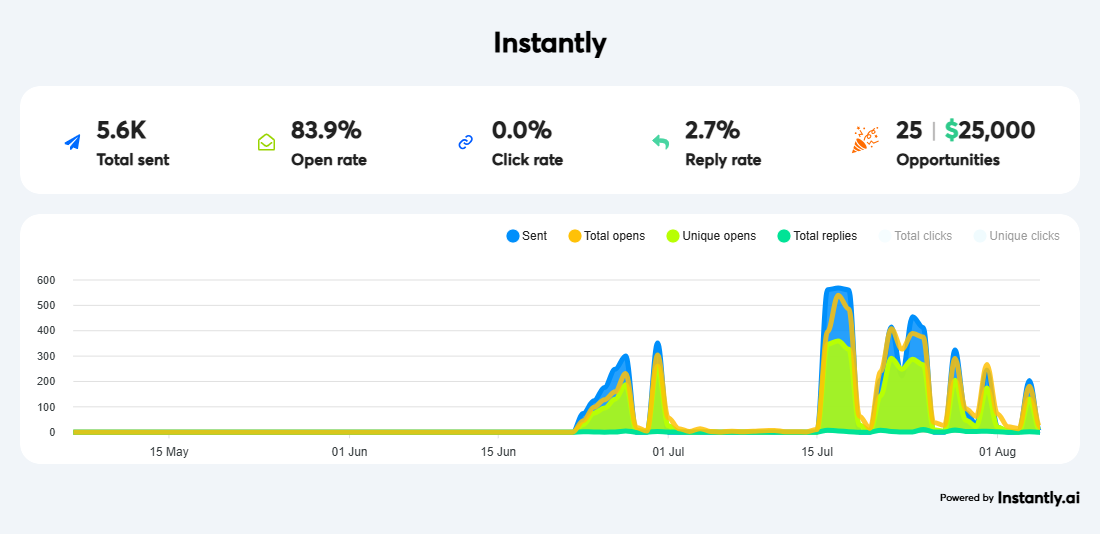
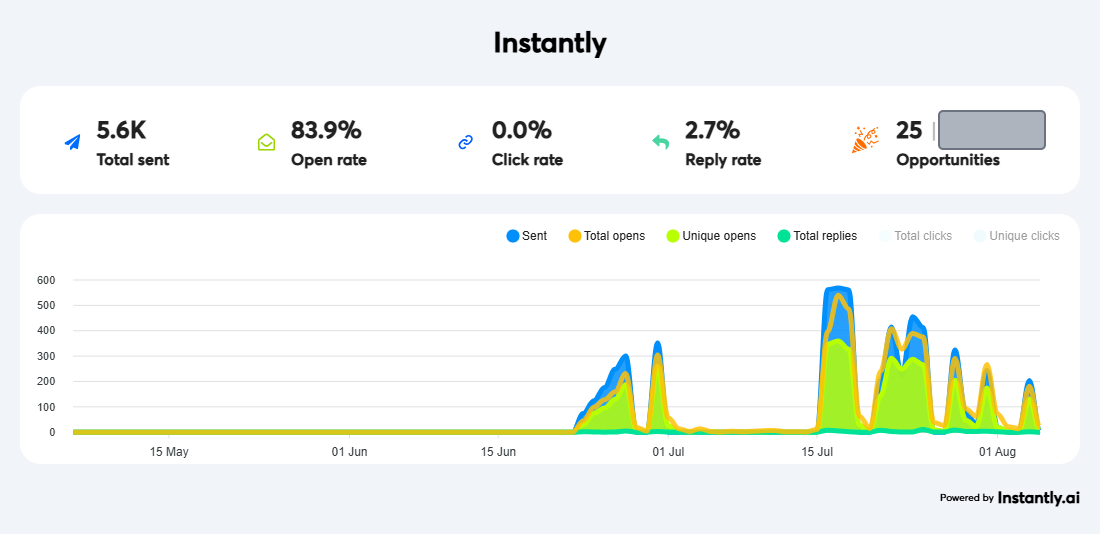
fix: redact unverified opportunity values

Changed region(s): [[0.8345, 0.1798, 0.9582, 0.2996]]

diff --git a/src/components/public/campaign-evidence-data.ts b/src/components/public/campaign-evidence-data.ts
@@ -40,8 +40,22 @@ import instantly20250805 from "@/assets/results/instantly_2025-08-05.png";
  * test (see the inbox-placement category). Dollar figures shown next to
  * "Opportunities" on the source screenshots (e.g. "$25,000") are Instantly's
  * own pipeline-value estimate, not independently verified revenue, so they
- * are intentionally omitted from every caption/alt text below even though
- * they're still visible in the screenshots themselves.
+ * are intentionally omitted from every caption/alt text below.
+ *
+ * That was true in text from the start, but as of 2026-09-02 it's also true
+ * of the pixels: instantly_2025-08-05.png, instantly-result_98.png, and
+ * instantly-campaign-result-2.png each had their "$25,000" / "$17,000" /
+ * "$140,000" figure redacted directly in the image — a solid, bordered,
+ * non-transparent gray block composited over just that text (measured to
+ * the exact glyph bounds via pixel scanning first, so nothing else in the
+ * same card was touched). The adjacent verified opportunity counts ("25",
+ * "17", "140"), every other metric, every chart, and every platform label
+ * are byte-for-byte the original screenshot pixels outside the redaction
+ * box. This is a deliberate, visibly-a-redaction edit (not a crop, since
+ * the dollar figure sits inline mid-card next to data that has to stay
+ * visible) — each of the three items below carries a note saying so, per
+ * the standing rule that a screenshot must never look like the platform
+ * itself omitted the figure.
  *
  * Rejected outright (not used anywhere):
  * - campaign-send-reply-volume.png: low-quality/illegible, superseded by
@@ -82,6 +96,7 @@ export const campaignEvidence: readonly CampaignEvidenceItem[] = [
     category: "campaign-performance",
     caption:
       "Sustained campaign performance on Instantly — 5.6K sent, a platform-reported 83.9% open rate, and a 2.7% reply rate over roughly three months, generating 25 sales opportunities.",
+    note: "Platform-assigned monetary value hidden because it is not verified revenue.",
     featured: true,
   },
   {
@@ -103,6 +118,7 @@ export const campaignEvidence: readonly CampaignEvidenceItem[] = [
     category: "campaign-performance",
     caption:
       "A second, smaller campaign on Instantly — 759 sequence sends, a platform-reported 98% open rate, and 17 sales opportunities generated.",
+    note: "Platform-assigned monetary value hidden because it is not verified revenue.",
   },
   {
     id: "instantly-campaign-result-2",
@@ -112,7 +128,7 @@ export const campaignEvidence: readonly CampaignEvidenceItem[] = [
     category: "campaign-performance",
     caption:
       "127,149 sequence starts generated 140 opportunities. Instantly reported a 78.65% Positive Reply Rate among replies—not an overall campaign reply rate.",
-    note: "An exceptional individual result, not a typical or guaranteed outcome — most campaigns perform closer to the other examples shown here.",
+    note: "An exceptional individual result, not a typical or guaranteed outcome — most campaigns perform closer to the other examples shown here. Platform-assigned monetary value hidden because it is not verified revenue.",
   },
   {
     id: "campaign-result-smartlead",
